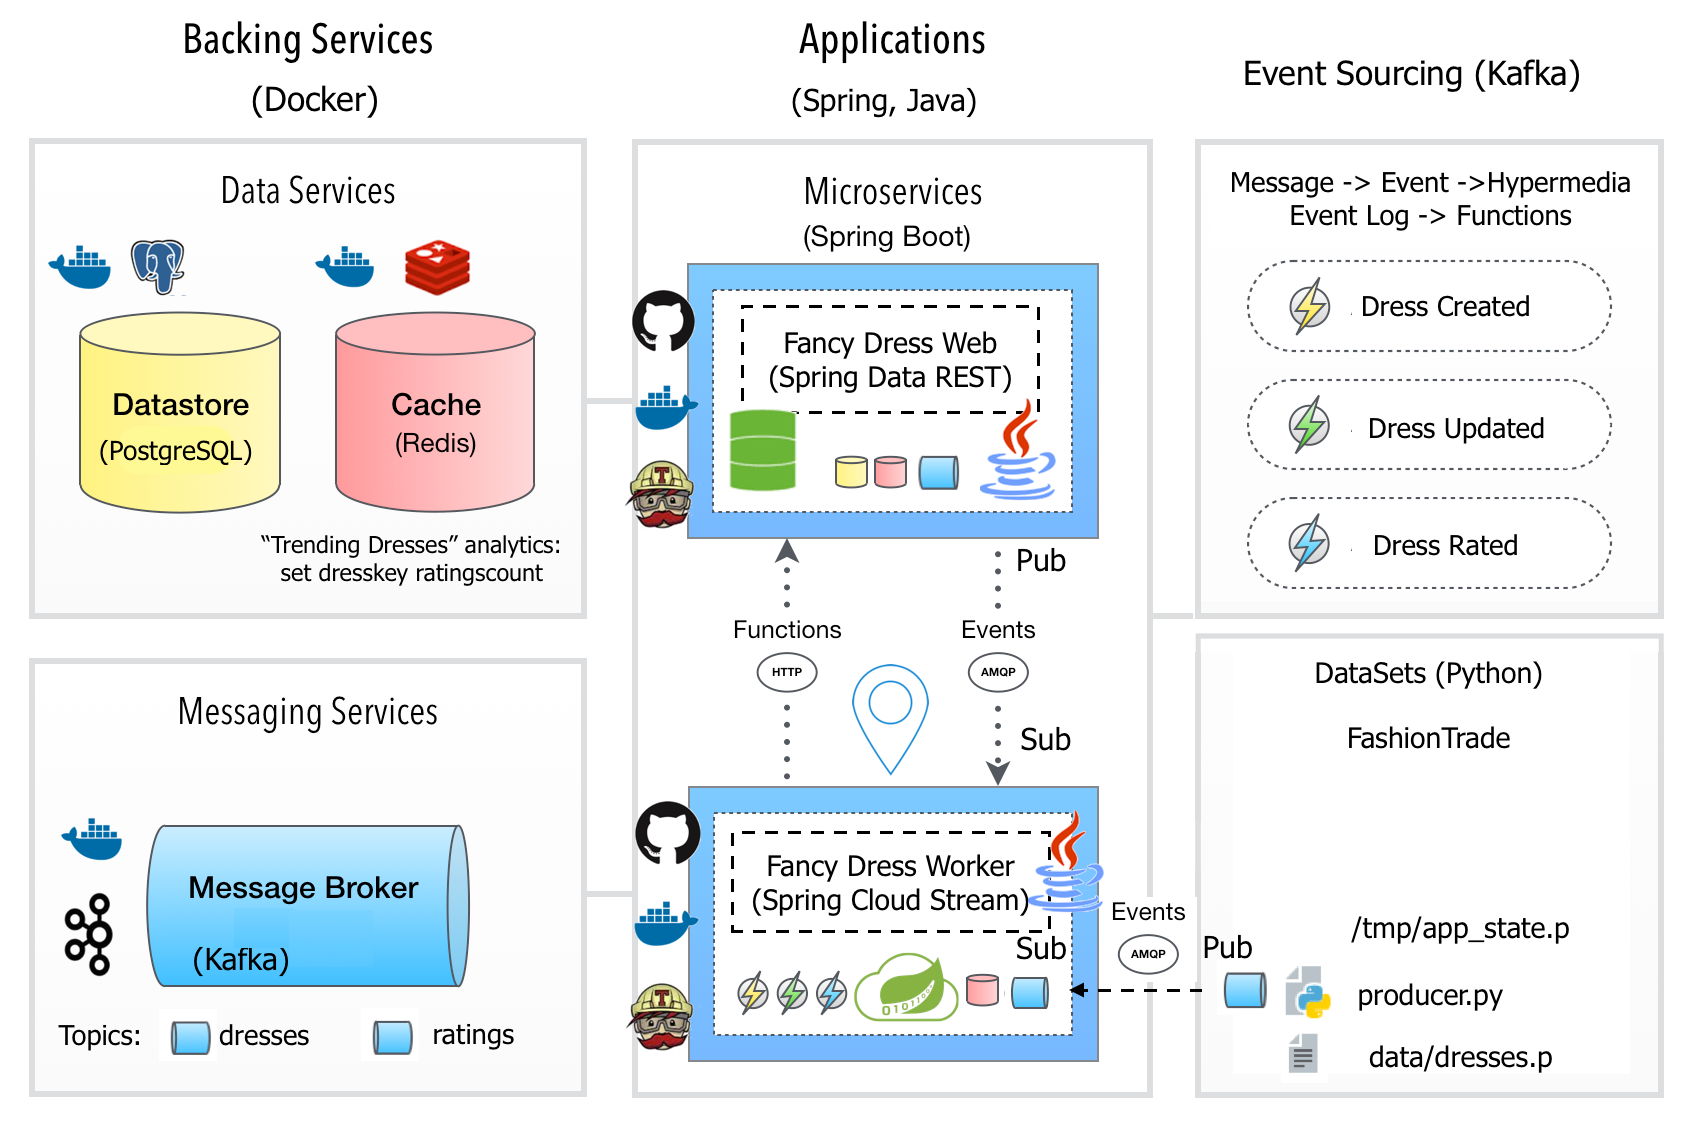
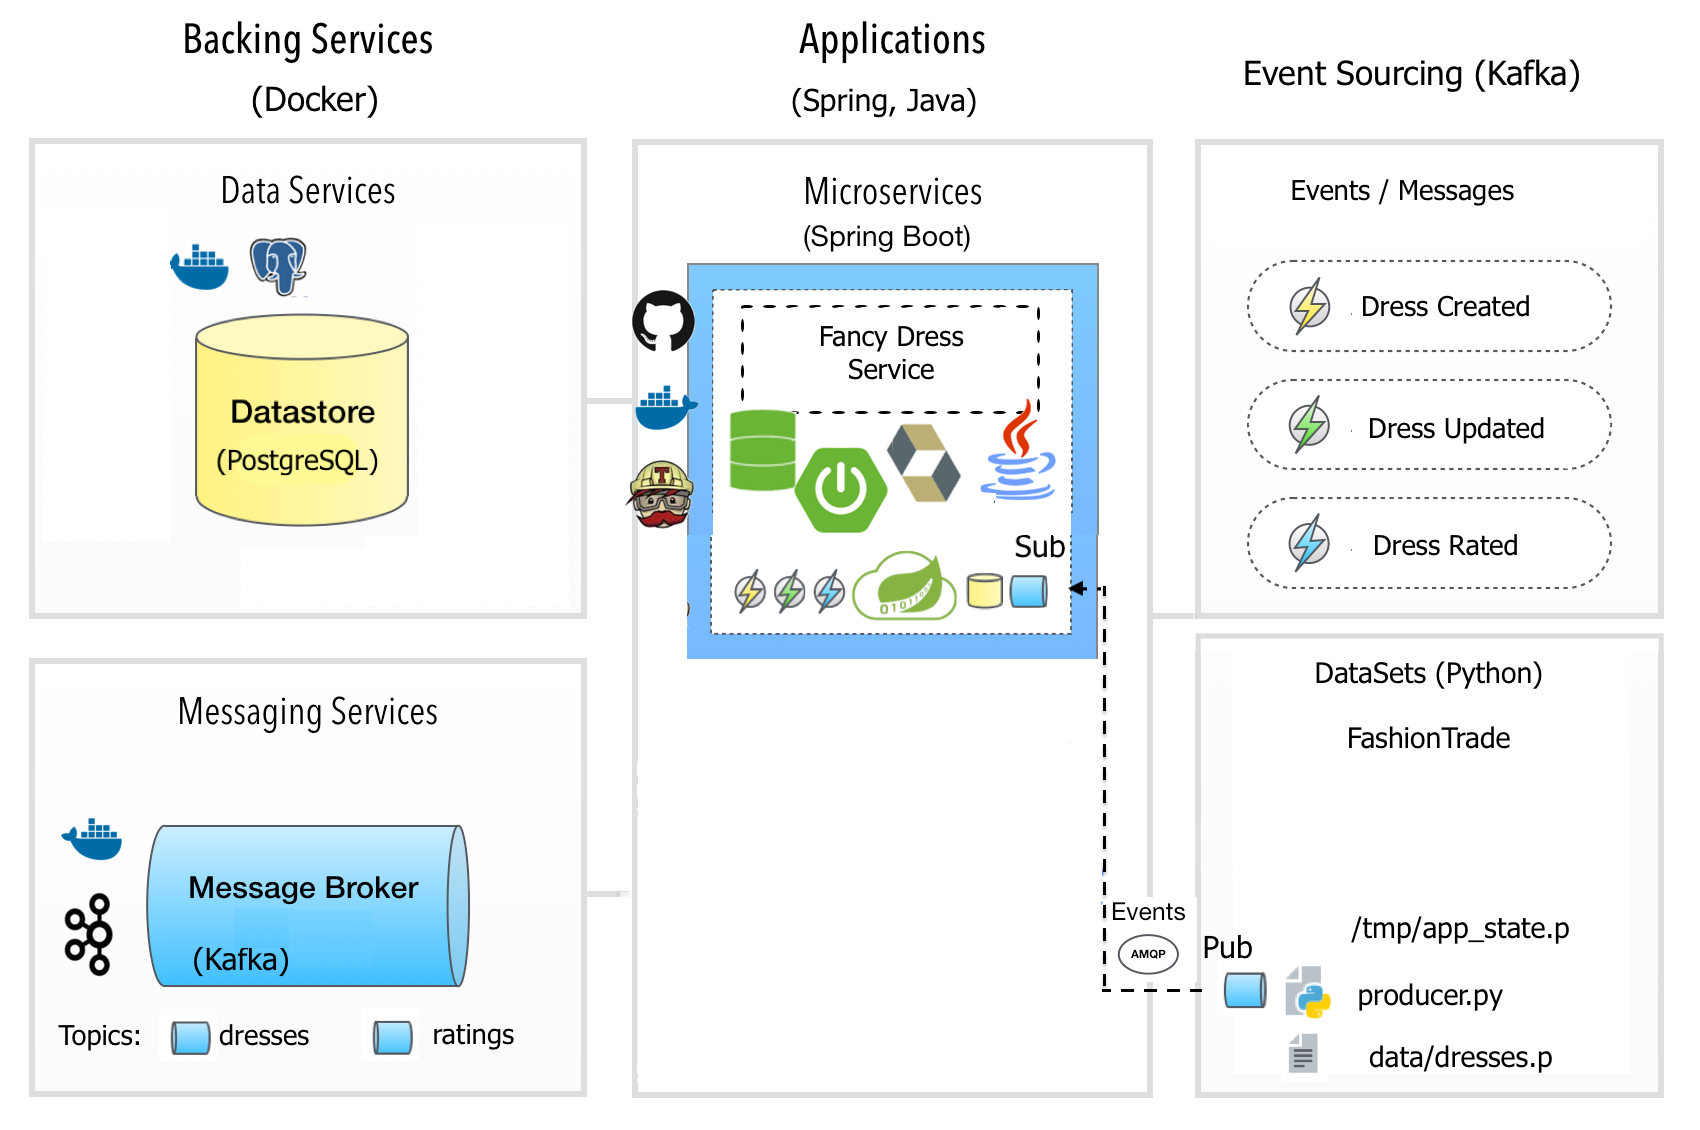
improved dress average rating calculation, cleanup readme

diff --git a/src/main/java/cristina/tech/fancydress/store/service/RatingEventStoreService.java b/src/main/java/cristina/tech/fancydress/store/service/RatingEventStoreService.java
@@ -1,14 +1,9 @@
 package cristina.tech.fancydress.store.service;
 
-import cristina.tech.fancydress.DressStatus;
-import cristina.tech.fancydress.store.domain.Brand;
 import cristina.tech.fancydress.store.domain.Dress;
 import cristina.tech.fancydress.store.domain.Rating;
-import cristina.tech.fancydress.store.repository.BrandRepository;
 import cristina.tech.fancydress.store.repository.DressRepository;
 import cristina.tech.fancydress.store.repository.RatingRepository;
-import cristina.tech.fancydress.worker.event.DressEventType;
-import cristina.tech.fancydress.worker.event.DressMessageEvent;
 import cristina.tech.fancydress.worker.event.RatingMessageEvent;
 import org.springframework.beans.factory.annotation.Autowired;
 import org.springframework.stereotype.Service;
@@ -17,10 +12,7 @@ import org.springframework.transaction.annotation.Transactional;
 import java.time.Instant;
 import java.time.LocalDateTime;
 import java.time.ZoneId;
-import java.util.ArrayList;
-import java.util.List;
 import java.util.Optional;
-import java.util.OptionalDouble;
 
 @Service
 @Transactional
@@ -34,30 +26,26 @@ public class RatingEventStoreService {
 
     /**
      * Saving orphan ratings is allowed for now, if dress with payload dress id is not found in DB yet.
+     *
      * @param ratingMessageEvent any message comming from the iratings channel
      */
     @Transactional
     public void apply(RatingMessageEvent ratingMessageEvent) {
         Rating rating = fromRatingMessageEvent(ratingMessageEvent);
 
-        if (rating != null) {
-            ratingRepository.save(rating);
+        if (rating == null) {
+            return;
         }
+
+        ratingRepository.save(rating);
 
         // does the associated dress already exist?
         Optional<Dress> dressOptional = dressRepository.findById(ratingMessageEvent.getPayload().getDressId());
+
         if (dressOptional.isPresent()) { //yes, update the average stars aggregate field
             Dress dress = dressOptional.get();
-            List<Integer> allStars = ratingRepository.listStarsByDressId(dress.getId());
-
-            OptionalDouble average = allStars
-                .stream()
-                .mapToDouble(s -> s)
-                .average();
-            if (average.isPresent()) {
-                dress.setAverageRating((int) Math.round(average.getAsDouble()));
-                dressRepository.save(dress);
-            }
+            dress.setAverageRating(ratingRepository.getAverageRating(dress.getId()));
+            dressRepository.save(dress);
         }
     }
 

diff --git a/src/main/java/cristina/tech/fancydress/store/repository/DressRepository.java b/src/main/java/cristina/tech/fancydress/store/repository/DressRepository.java
@@ -1,17 +1,19 @@
 package cristina.tech.fancydress.store.repository;
 
 import cristina.tech.fancydress.store.domain.Dress;
+import org.springframework.data.jpa.repository.Query;
 import org.springframework.data.repository.PagingAndSortingRepository;
 import org.springframework.data.repository.query.Param;
 import org.springframework.data.rest.core.annotation.RepositoryRestResource;
 
 import java.util.Optional;
 
-@RepositoryRestResource(collectionResourceRel = "items", path = "dresses")
+@RepositoryRestResource(collectionResourceRel = "dresses", path = "dresses")
 public interface DressRepository extends PagingAndSortingRepository<Dress, Integer> {
 
     /** Not to confuse with find by database id (uid), see {@link org.springframework.data.repository.CrudRepository#findOne(java.io.Serializable)}
      * This is the lookup by the dress identified assigned by the producer and is a text/string format.
      */
     Optional<Dress> findById(@Param("id") String id);
+
 }

diff --git a/src/main/java/cristina/tech/fancydress/store/repository/RatingRepository.java b/src/main/java/cristina/tech/fancydress/store/repository/RatingRepository.java
@@ -5,10 +5,8 @@ import org.springframework.data.jpa.repository.Query;
 import org.springframework.data.repository.CrudRepository;
 import org.springframework.data.repository.query.Param;
 
-import java.util.List;
-
 public interface RatingRepository extends CrudRepository<Rating, Integer> {
 
-    @Query("select r.stars from Rating r where r.dressId = :dressId")
-    List<Integer> listStarsByDressId(@Param("dressId") String dressId);
+    @Query(value = "SELECT ROUND(AVG(stars)) FROM rating WHERE dress_id = :dressId GROUP BY dress_id", nativeQuery = true)
+    Integer getAverageRating(@Param("dressId") String dressId);
 }

diff --git a/src/main/java/cristina/tech/fancydress/store/service/DressEventStoreService.java b/src/main/java/cristina/tech/fancydress/store/service/DressEventStoreService.java
@@ -60,8 +60,6 @@ public class DressEventStoreService {
         dress.setSeason(dressMessageEvent.getPayload().getSeason());
         dress.setPrice(dressMessageEvent.getPayload().getPrice());
         dress.setColor(dressMessageEvent.getPayload().getColor());
-
-        // any brand info?
         dress.setBrand(fromDressMessageEvent(dressMessageEvent.getPayload().getBrand()));
 
         // any image thumbnails?

diff --git a/README.md b/README.md
@@ -1,4 +1,5 @@
-## Fancy Dress Worker Service: AMQP-driven event processor to consume data for dresses and ratings domain aggregates.
+## Fancy Dress Service: AMQP-driven event processor to consume data for dresses and ratings domain aggregates from a Python Producer and expose it via a REST API
+
 
 ![Build Status](https://travis-ci.org/cristinanegrean/spring-cloud-stream-kafka.svg?branch=master)
 
@@ -7,17 +8,13 @@ Demonstrated concepts:
 * Event Stream Processing
 ![Streaming dress message events](stream_dress_message_event.png)
 ![Streaming rating message events](stream_rating_message_event.png)
-![Sink message events to db](sink_events_to_datastore.png)
-* Eventual Consistency
-* Compensating Transactions
+* Handling out-of-order events
+![Streaming dress message events](stream_out_of_order_create_event.png)
+![Streaming rating message events](update_sink_before_create.png)
 
-TODO: Update overview with concise implementation: 1 service component handing both worker + web
-
-Desired production architecture when scalling AMQP-driven event message processor separately from hypermedia driven web service
 ![Architecture](architecture_overview.png)
 
-
-### Spring projects and technology stack used:
+### Technology stack used:
 * Mainstream programming language: [Java](http://www.oracle.com/technetwork/java/javase/downloads/jdk8-downloads-2133151.html) for implementing the subscriber/consumer application that receives events for stream processing from Kafka over AMQP protocol, in order to consume the data for dresses and ratings
 * [Apache Kafka](http://kafka.apache.org/): message broker responsible for distributing the events
 * [Spring Cloud Stream](https://cloud.spring.io/spring-cloud-stream/): build message-driven microservices. Spring Cloud Stream provides an opinionated configuration of message brokers (Kafka or RabbitMQ), introducing the concepts of persistent pub/sub semantics, consumer groups and partitions for horizontal scaling.
@@ -27,6 +24,7 @@ Desired production architecture when scalling AMQP-driven event message processo
 * [Hibernate Validator](http://hibernate.org/validator/), which is the reference implementation of [JSR 303/349 - Bean Validation 1.0/1.1 API] (http://beanvalidation.org/1.1/spec/)
 * [PostgreSQL 9.6.3](https://www.postgresql.org/) open-source datastore
 * [Spring Boot](http://projects.spring.io/spring-boot/): helps assembling a DevOps friendly, self-runnable uber-fat-jar of the autonomous consumer microservice application
+* [Docker](https://www.docker.com/docker-mac)
 
 ### Bootstraping the service
 
@@ -43,7 +41,7 @@ Build and run tests. And the Docker image of the SpringBoot microservice. Note G
 $ ./gradlew clean build buildDocker
 ```
 
-2) Bootstrap Backing Services (Kafka Zooker, Redis) and the `Dress Consumer Service`
+2) Bootstrap Services: Kafka Zooker, Redis) and the `Dress Consumer Service`
 
 #### Using Docker:
 
@@ -56,12 +54,12 @@ docker compose -f docker-compose-dev.yml up
 #### When no Docker installed, on OS X follow below steps:
 
 2.1) [Download Apache Kafka binaries](https://kafka.apache.org/quickstart)
+
 2.2) Update your .bash_profile file with KAFKA_HOME environment variable, and add aliases to start ZooKeeper server and Kafka server (in case you want to save on typing commands each time)
 
 ```
 export KAFKA_HOME=/opt/kafka_2.11-0.10.2.0
-export REDIS_HOME=/opt/redis-4.0.0
-export PATH=$PATH:$KAFKA_HOME:$REDIS_HOME
+export PATH=$PATH:$KAFKA_HOME
 
 export KAFKA_HOST_PORT=localhost:9092
 export DOCKER_IP=127.0.0.1
@@ -124,9 +122,7 @@ Edit `.bash_profile`:
 
 ```
 export PYTHON_HOME=/usr/local/bin/python3
-export PATH=$PATH::$PYTHON_HOME
-export KAFKA_HOST_PORT=localhost:9092
-export DOCKER_IP=127.0.0.1
+export PATH=$PATH:$PYTHON_HOME
 ```
 
 Install packages and start the script:
